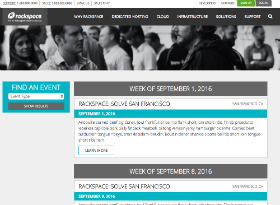
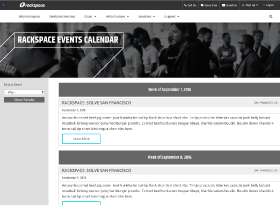
feat(zoolander): added new filter side bar, removed teal from events

diff --git a/styleguide/_themes/derek/scss/snowflakes/filtering.scss b/styleguide/_themes/derek/scss/snowflakes/filtering.scss
@@ -1,0 +1,115 @@
+.rsFilter-section {
+  overflow: hidden;
+}
+
+.rsFilter-bar {
+  @include make-sm-column(2);
+  background-color: $gray-lighter;
+  padding: 0 20px;
+}
+
+.rsFilter-hamburger {
+  background-color: transparent;
+  border: 0;
+  display: inline-block;
+  padding: 8px 12px;
+
+  &::before {
+    content: '\f0c9';
+    font-family: 'FontAwesome';
+  }
+
+  &:hover {
+    background-color: $gray-light;
+  }
+
+  &:focus {
+    outline: 0;
+  }
+}
+
+.rsFilter-mobileTitle {
+  @include subhead($gray-darker);
+  display: inline-block;
+  text-align: center;
+}
+
+.rsFilter-form {
+  display: none;
+  opacity: 0;
+  padding-bottom: 10px;
+  transition-duration: .1s;
+}
+
+.rsFilter-mobileForm {
+  display: block;
+}
+
+.rsFilter-mobileForm-effect {
+  opacity: 1;
+}
+
+.rsFilter-formTitle {
+  @include subhead($gray-darker);
+  display: none;
+  text-align: center;
+}
+
+.rsFilter-formSelect {
+  background: $white;
+  display: block;
+  margin: 1rem auto 0;
+  max-width: 200px;
+  width: $full-width;
+}
+
+.rsFilter-button {
+  background-color: $gray-base;
+  border: 0;
+  color: $white;
+  display: block;
+  margin: 1rem auto 0;
+  max-width: 200px;
+  padding: 0 15px;
+  text-align: center;
+  width: $full-width;
+
+  &:hover {
+    background-color: $gray-darker;
+    cursor: pointer;
+  }
+
+  &:focus {
+    outline: 0;
+  }
+}
+
+.rsFilter-content {
+  @include make-sm-column(10);
+  padding: 25px;
+}
+
+@media (min-width: $screen-sm-min) {
+  .rsFilter-bar {
+    padding: 20px;
+  }
+
+  .rsFilter-hamburger {
+    display: none;
+  }
+
+  .rsFilter-mobileTitle {
+    display: none;
+  }
+
+  .rsFilter-form {
+    display: block;
+    opacity: 1;
+    padding-bottom: 0;
+    transition-duration: 0s;
+  }
+
+  .rsFilter-formTitle {
+    display: block;
+  }
+}

diff --git a/styleguide/_themes/derek/scss/snowflakes/events.scss b/styleguide/_themes/derek/scss/snowflakes/events.scss
@@ -106,12 +106,13 @@
   background: $white;
   border: 1px solid $gray-light;
   margin: 0 0 .75rem;
+  overflow: hidden;
   text-align: center;
 }
 
 .eventsOverview-weekEvent-date {
-  @include subhead($white);
-  background: $teal-dark;
+  @include subhead($gray-darker);
+  border-bottom: 1px solid $gray-light;
   padding: .5rem 1.5rem;
   text-align: center;
 }
@@ -127,6 +128,7 @@
 .eventsOverview-weekEvent-headerLocation {
   @include make-xs-column(12);
   @include make-md-column(5);
+  background-color: $gray-lightest;
   font-size: 1.2rem;
   line-height: 4rem;
   padding: 0 3rem 0 1.5rem;
@@ -136,6 +138,7 @@
 .eventsOverview-weekEvent-headerTitle {
   @include make-xs-column(12);
   @include make-md-column(7);
+  background-color: $gray-lightest;
   font-size: 2rem;
   line-height: 4rem;
   padding: 0 1.5rem;
@@ -298,6 +301,7 @@
   .eventsOverview-searchFilter,
   .eventsOverview-searchResults {
     margin-bottom: 0;
+    width: 100%;
   }
 
   .event-backToEvents {
@@ -341,7 +345,7 @@
   }
 
   .eventsOverview-weekEvent-headerTitle {
-    padding: 0 1.5rem 0 3rem;
+    padding: 0 1.5rem 0 4rem;
   }
 
   .events-banner {
@@ -359,6 +363,10 @@
   .event-info-headerType,
   .eventsOverview-weekEvent-headerLocation {
     text-align: right;
+  }
+
+  .eventsOverview-weekEvent-headerLocation {
+    padding-right: 4rem;
   }
 
   .eventsOverview-weekEvent {

diff --git a/styleguide/_themes/derek/scss/_main.scss b/styleguide/_themes/derek/scss/_main.scss
@@ -31,6 +31,7 @@
 @import 'snowflakes/homepage';
 @import 'snowflakes/swatches';
 @import 'snowflakes/o365';
+@import 'snowflakes/filtering';
 @import 'snowflakes/events';
 @import 'snowflakes/stories';
 
